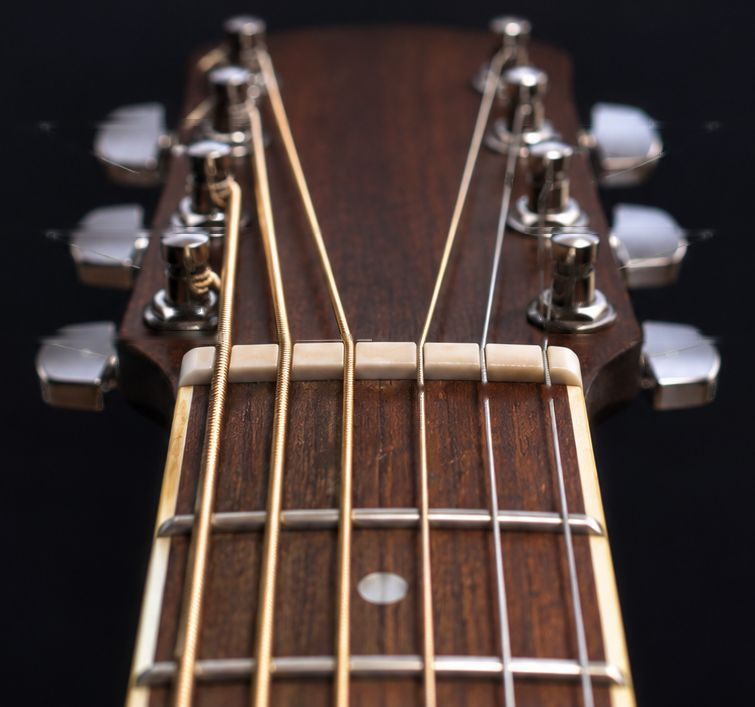
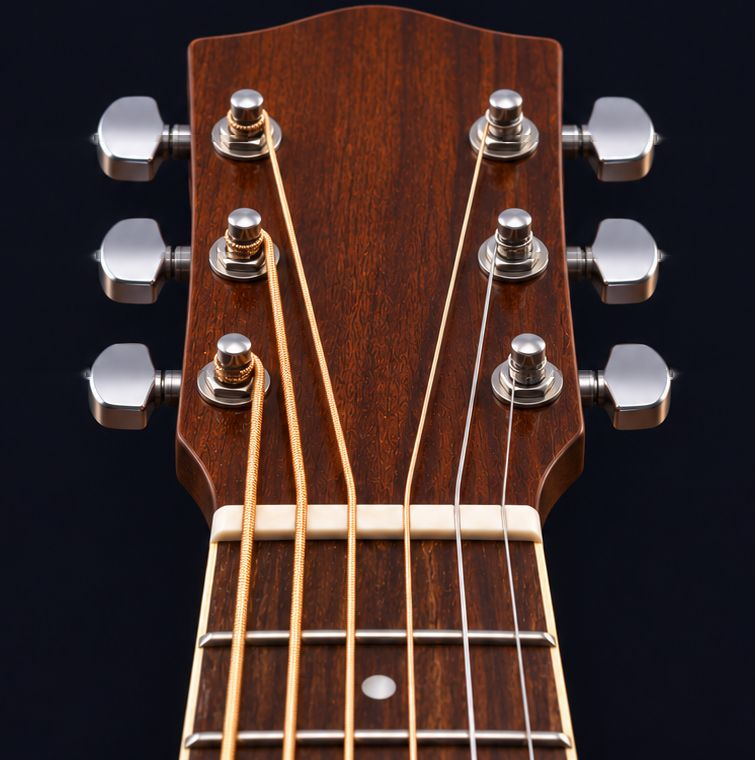
Tuner test v7 (new guitar headstock, sample recorder)

diff --git a/tuner-test.html b/tuner-test.html
@@ -188,18 +188,20 @@ button:focus-visible,input:focus-visible{outline:3px solid var(--accent);outline
 
 body{padding:16px} .wrap{max-width:460px;margin:0 auto;display:grid;gap:14px} .seg{display:flex;gap:6px} .seg button{flex:1}
 </style></head><body><div class="wrap">
-<div class="top"><div class="brandrow"><div class="logo" role="img" aria-label="Dibidup Music"></div><div class="brand"><small>Dibidup Music · test page v6</small>Tuner</div></div></div>
+<div class="top"><div class="brandrow"><div class="logo" role="img" aria-label="Dibidup Music"></div><div class="brand"><small>Dibidup Music · test page v7</small>Tuner</div></div></div>
 <div class="card"><p class="muted" style="margin:0 0 10px">Test page for the tuner of the Guitar, Bass and Ukulele apps. Choose the instrument, then open the tuner.</p>
 <div class="seg"><button class="btn" data-i="guitar">Guitar</button><button class="btn ghost" data-i="bass">Bass</button><button class="btn ghost" data-i="uke">Ukulele</button></div>
-<div id="row"></div></div></div>
+<div id="row"></div></div>
+<div class="card"><b>Record a sample for Claude</b><p class="muted" style="margin:6px 0 10px">Press the button and play the six open strings one by one, low to high, letting each ring about 3 seconds. It records 25 seconds and saves a file named tuner-sample.webm (or .mp4) in Downloads. Nothing is sent anywhere.</p>
+<button class="btn" id="rec">Record 25 s</button> <span id="recs" class="muted"></span></div></div>
 <script>const $=id=>document.getElementById(id);const MODE='guitar';function gcEvt(){}
 // ---------------- afinador por micrófono (guitarra, bajo, ukelele). Todo se analiza en el móvil; no se graba nada.
 // Diseño: arco de −50 a +50 cents, nota grande con su octava y el clavijero del instrumento con una etiqueta por cuerda.
 let TUN_INST = 'guitar';
 // cada cuerda: nombre, octava, MIDI, lado de la etiqueta, fila (y en la imagen) y punta de la clavija (x en la imagen de 1199 de ancho)
 const TUN_ALLSETS = {
-  guitar: [{id: 'std', label: 'Guitar · Standard', img: 'tuner_guitar.jpg', h: 707, s: [
-    ['E', 2, 40, 'L', 337, 279], ['A', 2, 45, 'L', 230, 305], ['D', 3, 50, 'L', 122, 330], ['G', 3, 55, 'R', 122, 876], ['B', 3, 59, 'R', 230, 904], ['E', 4, 64, 'R', 337, 931]]}],
+  guitar: [{id: 'std', label: 'Guitar · Standard', img: 'tuner_guitar.jpg', h: 760, s: [
+    ['E', 2, 40, 'L', 373, 312], ['A', 2, 45, 'L', 255, 322], ['D', 3, 50, 'L', 138, 320], ['G', 3, 55, 'R', 138, 875], ['B', 3, 59, 'R', 255, 879], ['E', 4, 64, 'R', 373, 891]]}],
   bass: [{id: 'b4', label: 'Bass · 4 strings', img: 'tuner_bass4.jpg', h: 752, s: [
       ['E', 1, 28, 'L', 441, 258], ['A', 1, 33, 'L', 331, 311], ['D', 2, 38, 'L', 226, 352], ['G', 2, 43, 'L', 123, 392]]},
     {id: 'b5', label: 'Bass · 5 strings', img: 'tuner_bass5.jpg', h: 764, s: [
@@ -371,4 +373,9 @@ function draw(){ $('row').innerHTML=tunerRow(); wireTuner(); }
 document.querySelectorAll('.seg button').forEach(b=>b.onclick=()=>{TUN_INST=b.dataset.i;TUN_SETS=TUN_ALLSETS[TUN_INST];TUN_SET=TUN_SETS[0];try{const k=localStorage.getItem('dm-tun-'+TUN_INST);if(k)TUN_SET=TUN_SETS.find(x=>x.id===k)||TUN_SET;}catch(e){}TUN_NAME={guitar:'guitar',bass:'bass',uke:'ukulele'}[TUN_INST];
 document.querySelectorAll('.seg button').forEach(x=>x.className='btn'+(x===b?'':' ghost'));draw();});
 draw();
+$('rec').onclick=async()=>{try{const st=await navigator.mediaDevices.getUserMedia({audio:{echoCancellation:false,noiseSuppression:false,autoGainControl:true}});
+const mt=['audio/webm;codecs=opus','audio/mp4','audio/webm'].find(t=>window.MediaRecorder&&MediaRecorder.isTypeSupported(t))||'';const r=new MediaRecorder(st,mt?{mimeType:mt,audioBitsPerSecond:128000}:{}),ch=[];
+r.ondataavailable=e=>ch.push(e.data);r.onstop=()=>{st.getTracks().forEach(t=>t.stop());const b=new Blob(ch,{type:r.mimeType}),a=document.createElement('a');a.href=URL.createObjectURL(b);
+a.download='tuner-sample.'+(r.mimeType.includes('mp4')?'mp4':'webm');document.body.appendChild(a);a.click();$('recs').textContent='Saved: '+a.download;};
+r.start();let n=25;$('recs').textContent='Recording… 25';const iv=setInterval(()=>{n--;$('recs').textContent=n>0?'Recording… '+n:'';if(n<=0){clearInterval(iv);r.stop();}},1000);}catch(e){$('recs').textContent='Microphone error: '+e.name;}};
 </script></body></html>
